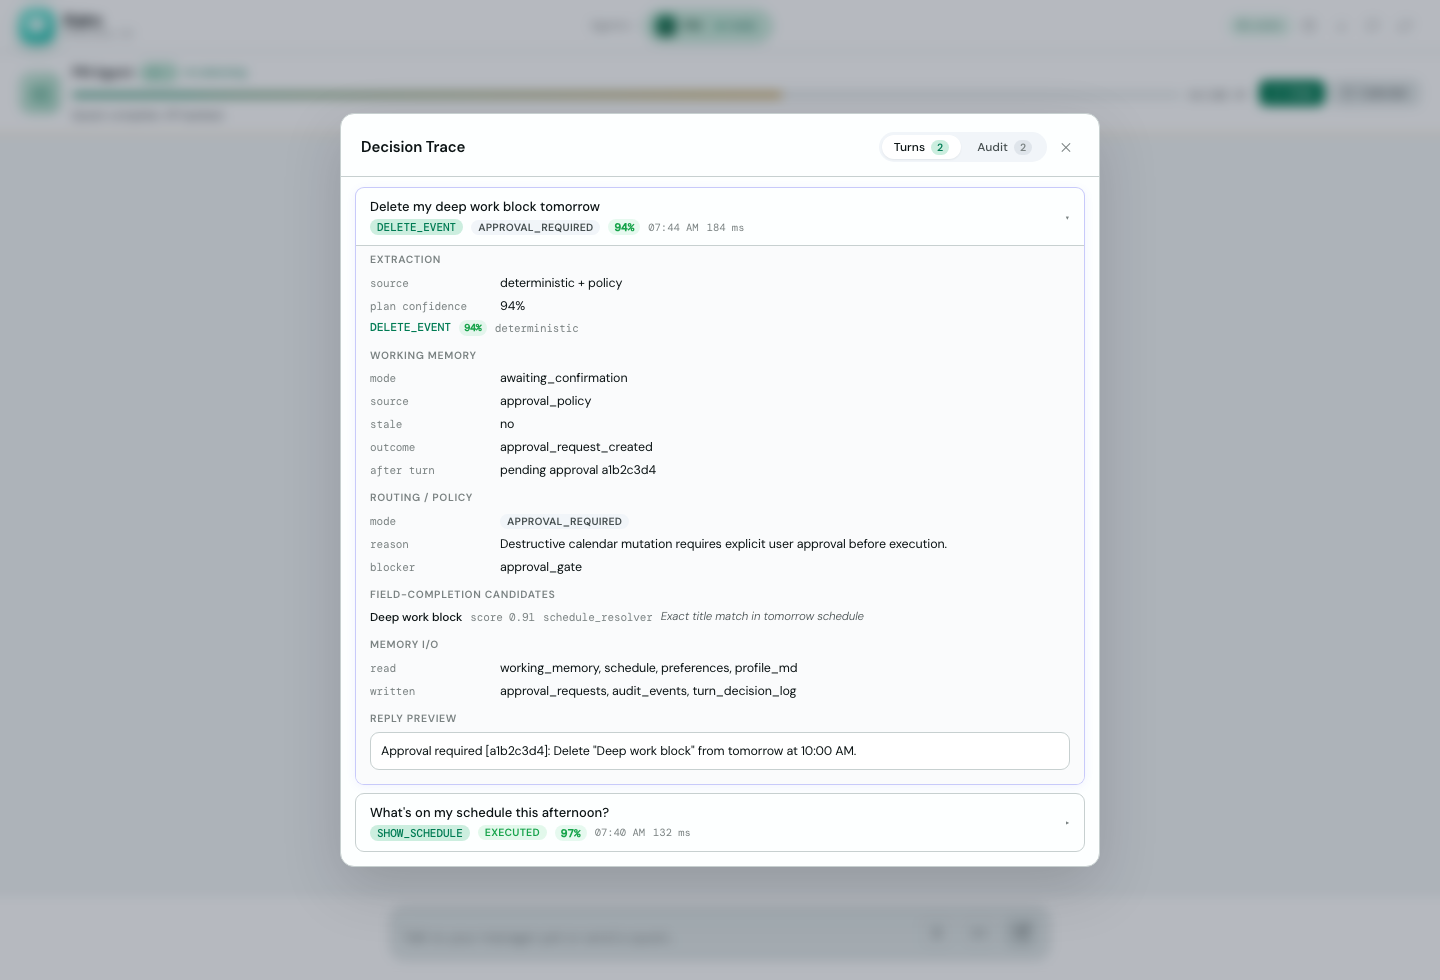
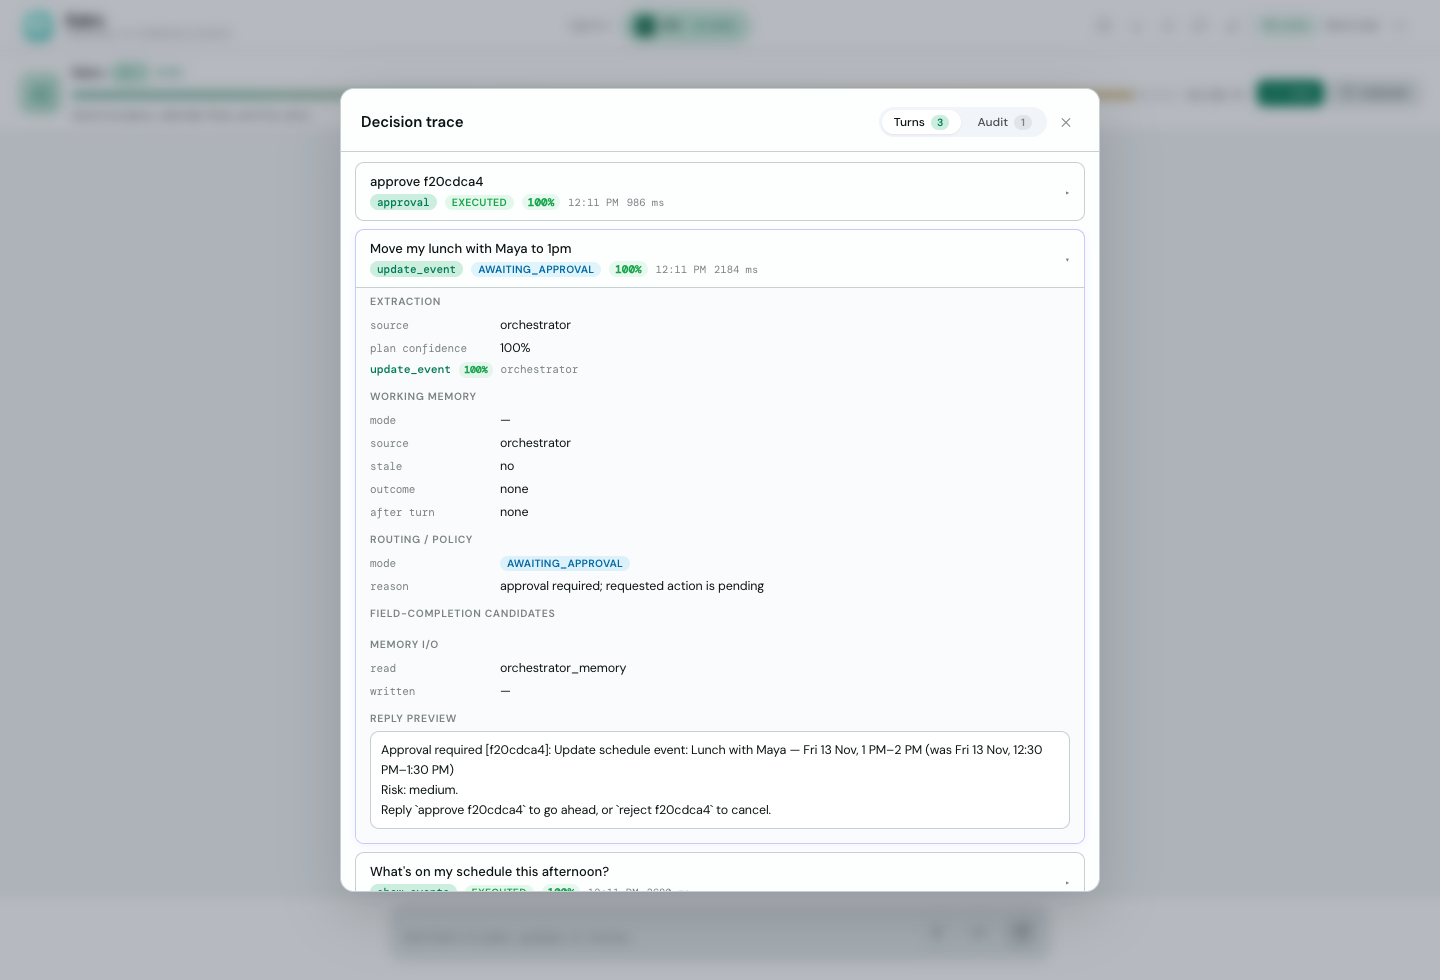
Bring the README, diagrams, images and blind eval doc up to date
- Diagrams in the README and ARCHITECTURE.md show the voice step between
  respond and persist, with a paragraph on how a rewording is checked
- The results table has a column for the graph as it runs now (96% right,
  2.38 model calls per turn, 2.6 s median, one run) beside the runs from
  before the voice pass. The badge and the summary line quote the latest run
- docs/BLIND_EVAL.md has a section for the two voice-pass runs: what missed,
  why the models' history now keeps the draft, and the remembered fact the
  background profile tidy-up reworded
- The three screenshots are re-shot from the current interface, with two
  added for the task list beside the calendar and the About me panel
- The demo GIF is rebuilt from the same captures as seven captioned frames

The test-count badge is unchanged.

diff --git a/README.md b/README.md
@@ -10,7 +10,7 @@
 ![React](https://img.shields.io/badge/React-UI-61DAFB?logo=react&logoColor=black)
 ![TypeScript](https://img.shields.io/badge/TypeScript-strict-3178C6?logo=typescript&logoColor=white)
 ![Tests](https://img.shields.io/badge/tests-1359%20passing-2ea44f)
-![Blind eval](https://img.shields.io/badge/blind%20eval-97%25%20right-2ea44f)
+![Blind eval](https://img.shields.io/badge/blind%20eval-96%25%20right-2ea44f)
 ![Offline evals](https://img.shields.io/badge/offline%20evals-252%2F252-2ea44f)
 
 Try it out: https://kairo-mu-two.vercel.app
@@ -34,7 +34,7 @@ Live app: [kairo-mu-two.vercel.app](https://kairo-mu-two.vercel.app)
 > The public frontend starts in temporary demo mode by default because the free
 > deployment does not provide durable SQLite storage.
 
-![Kairo demo: natural-language calendar update, approval gate, decision trace, and mobile calendar](docs/demo/kairo-demo.gif)
+![Kairo demo: a calendar change behind an approval, the decision trace, the task list, About me, and the mobile calendar](docs/demo/kairo-demo.gif)
 
 ## Two-Minute Skim
 
@@ -43,7 +43,7 @@ Live app: [kairo-mu-two.vercel.app](https://kairo-mu-two.vercel.app)
 | What is it? | A full-stack Kairo agent for calendar, todos, habits, journal, memory, and Google Calendar sync. |
 | What makes it hard? | Natural-language requests can mutate private personal state, so the system must separate understanding from permission, execution, and auditability. |
 | What did I build? | A React UI, FastAPI backend, an agent graph (coordinator, domain agents, a tool registry, a gate that checks every proposal), approval policy, receipts read back from storage, SQLite persistence, two eval harnesses, security doc, deployment path, and decision-trace panel. |
-| Proof it works | 1359 pytest tests; a blind eval of 117 un-coached messages scored by what ends up stored (97% right, 0–1 wrong saves, 0 trapped turns in the last two runs, against 30% right on the path it replaced); 252/252 cases on the offline suite for the earlier deterministic workflow; adversarial tests; Docker Compose deployment docs. |
+| Proof it works | 1359 pytest tests; a blind eval of 117 un-coached messages scored by what ends up stored (96% right, 1 wrong save, 0 trapped turns in the latest run, against 30% right on the path it replaced); 252/252 cases on the offline suite for the earlier deterministic workflow; adversarial tests; Docker Compose deployment docs. |
 
 ## Highlights
 
@@ -244,14 +244,15 @@ graph in the UI.
 
 ## Screenshots
 
-These screenshots show the three UI states that matter most for review: normal
-use, safety gating, and inspectability.
+These screenshots show the UI states that matter most for review: safety
+gating, inspectability, the task list beside the calendar, and what is
+remembered.
 
 **Approval Gate**
 
-A destructive calendar request is paused behind an explicit approval prompt.
+A change to the calendar is paused behind an explicit approval card.
 
-![Approval gate for a destructive action](docs/screenshots/approval-gate.png)
+![Approval card for a calendar change](docs/screenshots/approval-gate.png)
 
 **Decision Trace**
 
@@ -260,12 +261,27 @@ are visible from the trace panel.
 
 ![Decision trace observability panel](docs/screenshots/decision-trace.png)
 
+**Tasks and calendar**
+
+Open tasks are grouped by urgency beside the full-screen calendar, and can be
+dragged onto it.
+
+![Task list grouped by urgency beside the calendar](docs/screenshots/calendar-tasks.png)
+
+**About me**
+
+What Kairo remembers about the user, checked against what they asked it to
+remember.
+
+![About me panel listing remembered facts](docs/screenshots/about-me.png)
+
 ## Architecture
 
 Web chat runs on an agent graph
-([`apps/api/kairo/agents/graph`](apps/api/kairo/agents/graph)). Two nodes call a
-model, and a model can only propose: it picks one tool and fills in typed
-arguments. Code does the rest.
+([`apps/api/kairo/agents/graph`](apps/api/kairo/agents/graph)). Two nodes ask a
+model what to do, and a model can only propose: it picks one tool and fills in
+typed arguments. Code does the rest. A third model call, at the end, only
+rewords the reply.
 
 ```mermaid
 flowchart TD
@@ -282,7 +298,8 @@ flowchart TD
     G -->|"read result or question"| R["respond<br/>reply built from receipts"]
     APP --> R
     ACT --> R
-    R --> P["persist<br/>history, decision trace, audit log"]
+    R --> V["voice<br/>small model rewords the reply;<br/>kept only if the facts survive"]
+    V --> P["persist<br/>history, decision trace, audit log"]
     P -. read/write .-> DB["SQLite stores:<br/>app state, open question,<br/>approvals, audit events, traces"]
 ```
 
@@ -294,6 +311,11 @@ flowchart TD
 - **Replies come from storage.** After a write the stores are read back and the
   reply is built from the stored record, so it cannot describe something that
   is not there.
+- **A model words the reply, and cannot change it.** A small model rewords the
+  reply so it sounds like an assistant. The rewording is compared with the
+  original and dropped if a number, time, day, name, quoted text or list item
+  changed, or if it claims a change nothing backs. Approval prompts and failed
+  writes are never reworded, and the other models keep reading the original.
 - **A question is asked once.** It is offered to the next message, parked once
   with a reminder if the user moves on, and then dropped.
 - **Domains are data.** Tasks, habits, journal, calendar, memory and the
@@ -316,16 +338,20 @@ up stored, not by what the reply says.
 117 un-coached messages from 13 simulated personas, written the way people
 type. A turn is right only if the stores afterwards hold what was asked. The
 bar: at least 70% right, at most 2% wrong-but-reported-done, zero trapped
-turns. Last two recorded runs on `gpt-4o-mini`:
+turns. Recorded runs on `gpt-4o-mini`: the path it replaced, the graph before
+the voice pass (two runs), and the graph as it runs now:
 
-| | Previous path | Agent graph, run 1 | Agent graph, run 2 |
+| | Previous path | Agent graph, before the voice pass | Agent graph, now |
 | --- | --- | --- | --- |
-| Right, of scoreable turns | 30% | **97%** | **97%** |
-| Wrong but reported done | 21 turns | 0 | 1 |
+| Right, of scoreable turns | 30% | 97% and 97% | **96%** |
+| Wrong but reported done | 21 turns | 0 and 1 | 1 |
 | Trapped by an old question | 9 turns | 0 | 0 |
-| Model calls per turn | 2.05 | 1.52 | 1.51 |
-| Median reply time | 3.7 s | 1.7 s | 1.7 s |
-| Passes the bar | no | **yes** | **yes** |
+| Model calls per turn | 2.05 | 1.52 and 1.51 | 2.38 |
+| Median reply time | 3.7 s | 1.7 s | 2.6 s |
+| Passes the bar | no | yes | **yes** |
+
+The voice pass rewords each reply with one more model call, which is where the
+extra call and the extra second come from. "Now" is a single run.
 
 What these numbers are not:
 
@@ -334,7 +360,7 @@ What these numbers are not:
   the bar while it was being built.
 - Three personas are held out, and the graph scored 90% on them the first time
   it saw them. Fixes made after that look used those turns, so the holdout
-  share of the 97% is no longer a first look.
+  share of these figures is no longer a first look.
 - The wording checks read English. Messages in other languages rest on the
   model alone.
 

diff --git a/docs/BLIND_EVAL.md b/docs/BLIND_EVAL.md
@@ -440,6 +440,38 @@ orchestrator. Two recorded runs of the 117-turn set, 2026-11-13, `gpt-4o-mini`:
 
 Reports: `artifacts/blind/graph-20261113T053448Z.json` and `…T053811Z.json`.
 
+### After the voice pass
+
+A small model now rewords each reply after it is built, and the rewording is
+sent only if it keeps the draft's facts (`kairo/agents/graph/voice.py`). Two
+recorded runs of the 117-turn set, 2026-11-13, `gpt-4o-mini`:
+
+| Whole set, 117 turns | Before the voice pass (two runs) | Run 1: models read the rewording | Run 2: models read the draft |
+|---|---|---|---|
+| Right, of scoreable turns | 97% and 97% | 94% (98 of 104) | 96% (100 of 104) |
+| Wrong but reported done | 0 and 1 | 2 | 1 |
+| Trapped turns | 0 | 0 | 0 |
+| Model calls per turn | 1.52 and 1.51 | 2.34 | 2.38 |
+| Reply time, median / 95th | 1.7 s / 3.7–4.1 s | 2.3 s / 4.7 s | 2.6 s / 6.3 s |
+| Bar | pass | **pass** | **pass** |
+
+- **Run 1 kept the reworded reply in the history the models read.** One turn
+  went wrong in a way that pointed at that: after a reworded reply, "add todo
+  fix figure 3 due friday" was answered by checking the task off. Run 2 keeps
+  the draft in the models' history and shows the rewording only to the user,
+  so wording cannot change a later decision. That is how it runs now.
+- **What missed in run 2 was decided before the reply was worded:** the Contoso
+  task (as before), the cardiology title (as before), and "standup daily 9:30"
+  refused over its repeat, which left two later turns without the event they
+  needed.
+- **Run 1 exposed a memory fault that is not the voice pass's.** "Maya's mum
+  prefers texts over calls" was confirmed as saved and then rewritten to
+  "User's mum prefers texts over calls" by the background profile tidy-up.
+  Replies used to return before that finished, so the scorer did not see it.
+- **One run each.** The difference between 96% and 97% is one turn.
+
+Reports: `artifacts/blind/graph-20261113T123719Z.json` and `…T124444Z.json`.
+
 ## The scores ledger
 
 A prompt's version says that it changed, not whether it got better. The ledger,

diff --git a/ARCHITECTURE.md b/ARCHITECTURE.md
@@ -173,14 +173,23 @@ flowchart TD
     G -->|"a read, an answer, or a question"| R["respond<br/>reply from receipts;<br/>parks an unanswered question"]
     APP --> R
     ACT --> R
-    R --> P["persist<br/>turn memory, decision log with versions"]
+    R --> V["voice<br/>small model rewords the reply;<br/>kept only if it says the same thing"]
+    V --> P["persist<br/>turn memory keeps the draft,<br/>decision log with versions"]
 ```
 
 How it differs from the orchestrated turn:
 
 - **A model proposes; code decides.** `coordinate` and `agent` are the only
-  nodes that call a model. Each call picks one tool and fills in typed
-  arguments. No model has a tool that writes.
+  nodes whose model decides anything. Each call picks one tool and fills in
+  typed arguments. No model has a tool that writes.
+- **The reply is reworded last, and checked.** `respond` builds the reply from
+  receipts. `voice` (`graph/voice.py`) has the small model (`PM_MODEL`) reword
+  it, and sends the rewording only if `changed_the_facts` finds the same
+  numbers, times, days, months, quoted text, list items and stored names, the
+  same question or none, and no claim of a change that no receipt backs.
+  Approval prompts, unconfirmed writes and refused messages are sent as
+  written. The user reads the rewording; turn memory keeps the draft, so
+  wording cannot change a later decision. `KAIRO_VOICE=off` turns it off.
 - **One parse.** The arguments are the command. Nothing re-reads text
   afterwards, so there is no trigger phrase and no regex extraction on this
   path.
